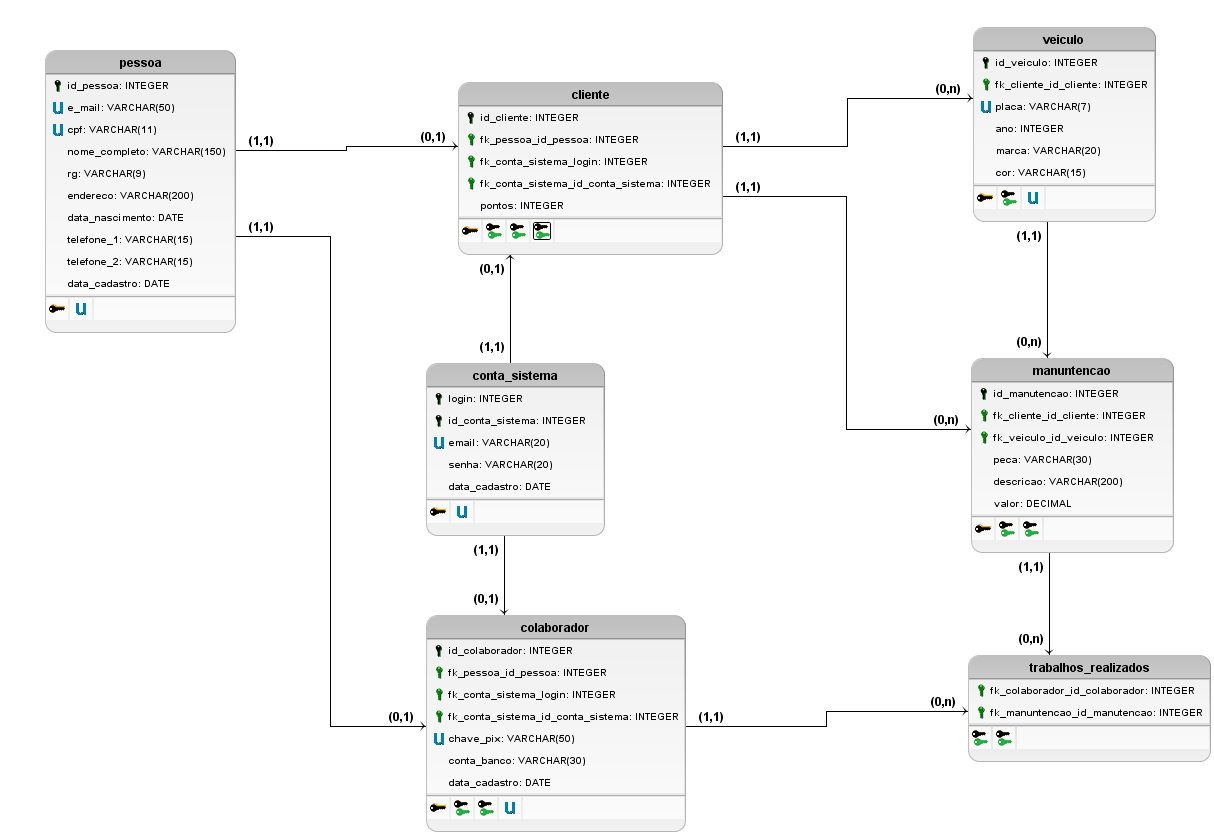
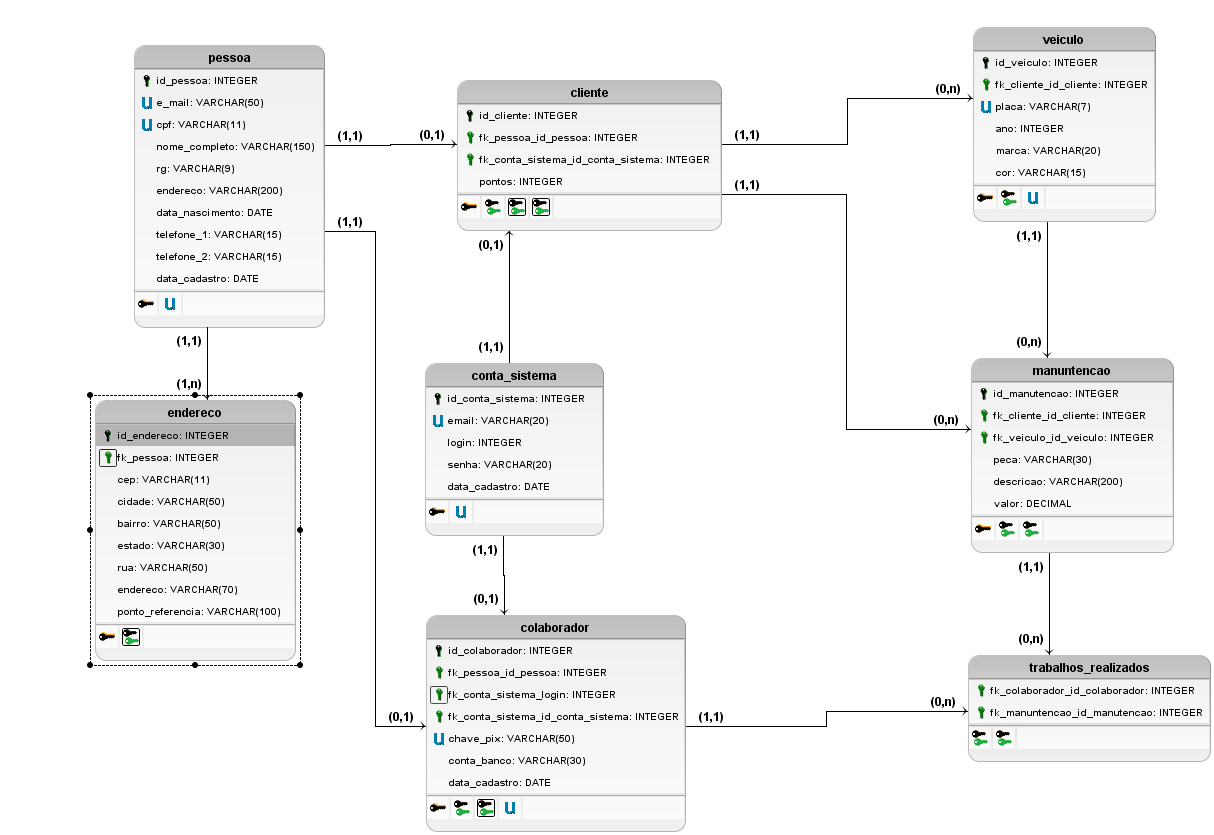
Nova tabela no banco de dados chamada endereco.

diff --git a/database/migrations/2024_01_10_120717_create_endereco_table.php b/database/migrations/2024_01_10_120717_create_endereco_table.php
@@ -1,0 +1,39 @@
+<?php
+
+use Illuminate\Database\Migrations\Migration;
+use Illuminate\Database\Schema\Blueprint;
+use Illuminate\Support\Facades\Schema;
+
+return new class extends Migration
+{
+    /**
+     * Run the migrations.
+     */
+    public function up(): void
+    {
+        Schema::create('endereco', function (Blueprint $table) {
+            $table->bigIncrements('id_endereco');
+            $table->string('cep', 11);
+            $table->string('cidade', 50);
+            $table->string('bairro', 50);
+            $table->string('estado', 50);
+            $table->string('rua', 50);
+            $table->string('endereco', 50);
+            $table->integer('numero');
+            $table->string('ponto_referencia', 100);
+
+            $table->unsignedBigInteger('id_pessoa');
+            $table->foreign('id_pessoa')->references('id_pessoa')->on('pessoa');
+
+            $table->timestamps();
+        });
+    }
+
+    /**
+     * Reverse the migrations.
+     */
+    public function down(): void
+    {
+        Schema::dropIfExists('endereco');
+    }
+};
